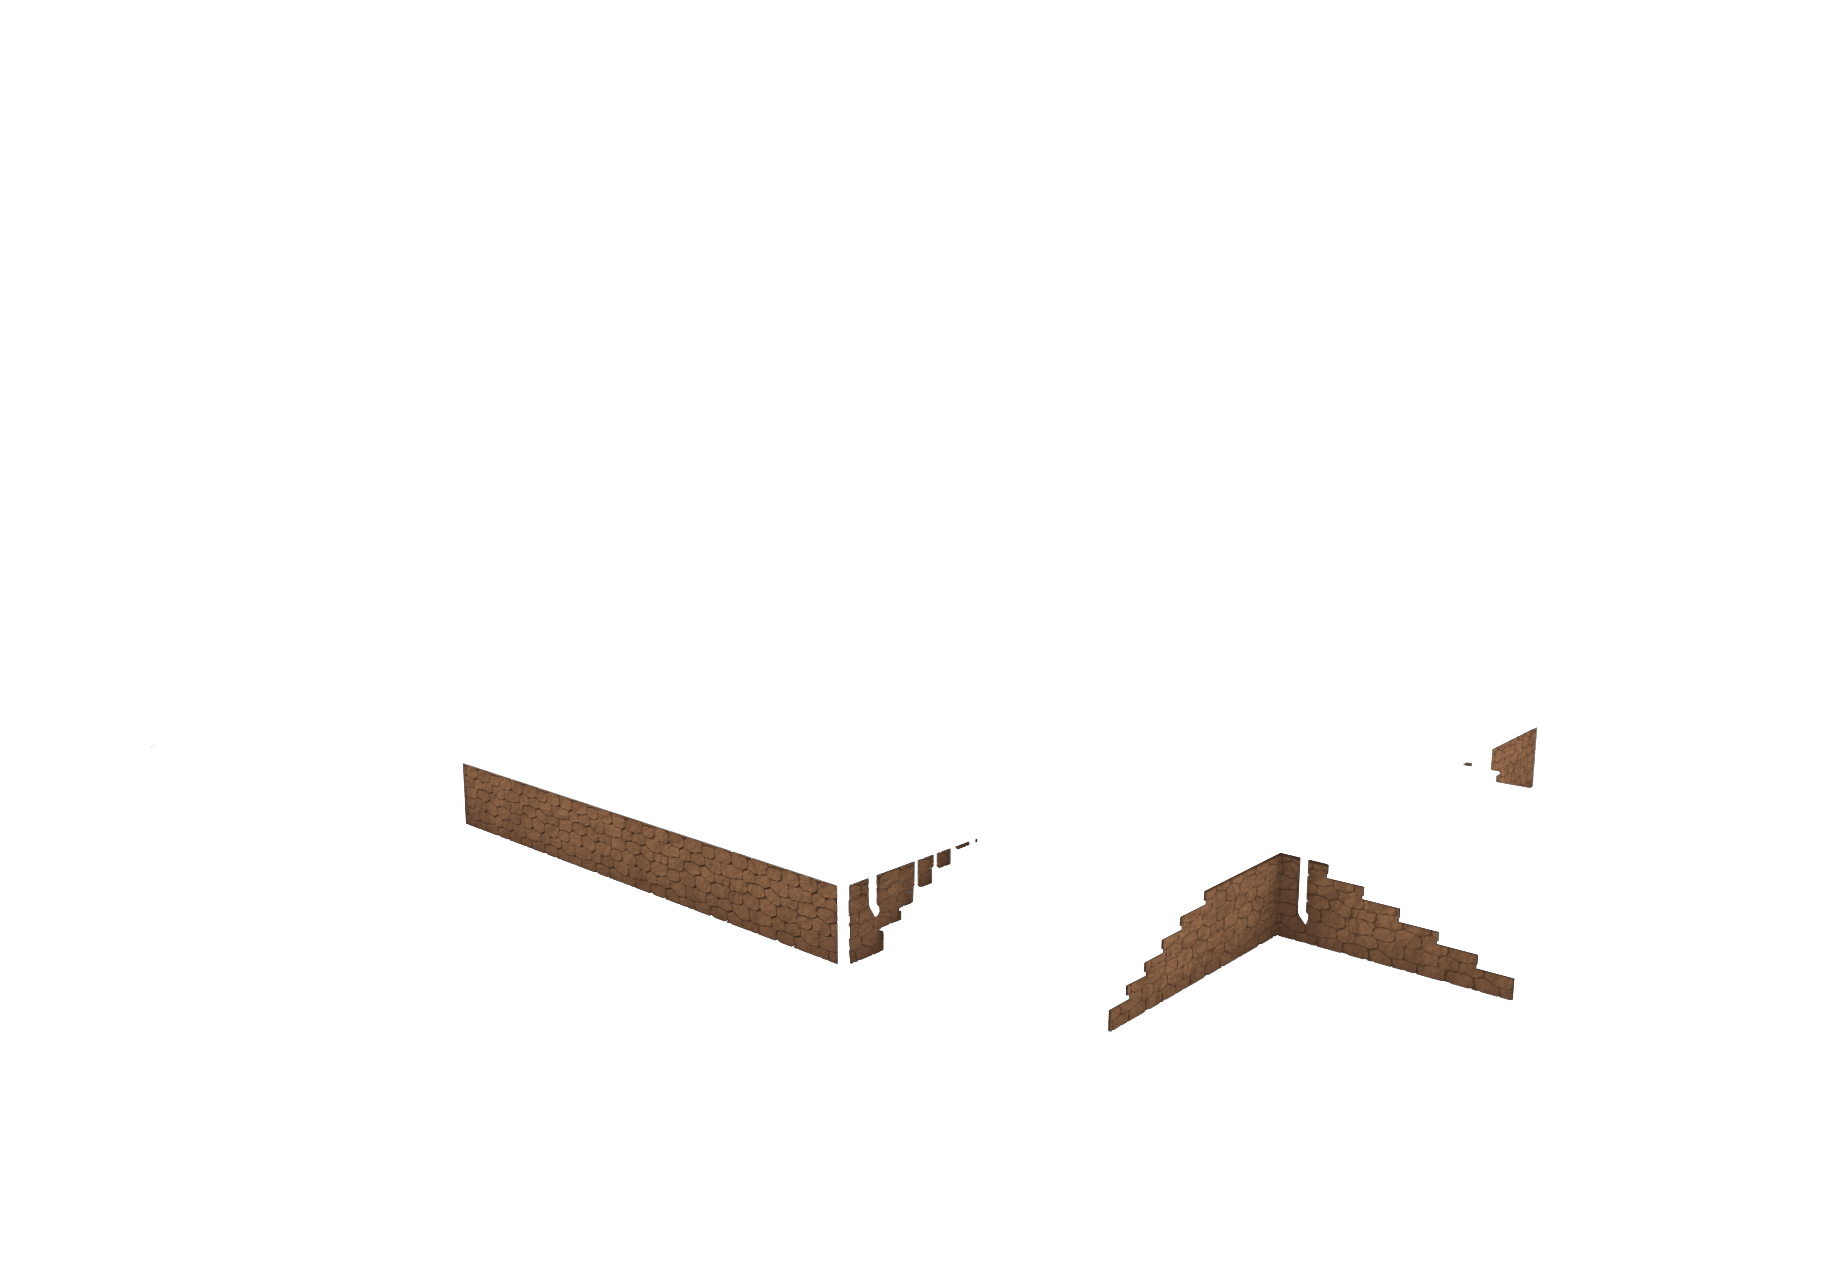
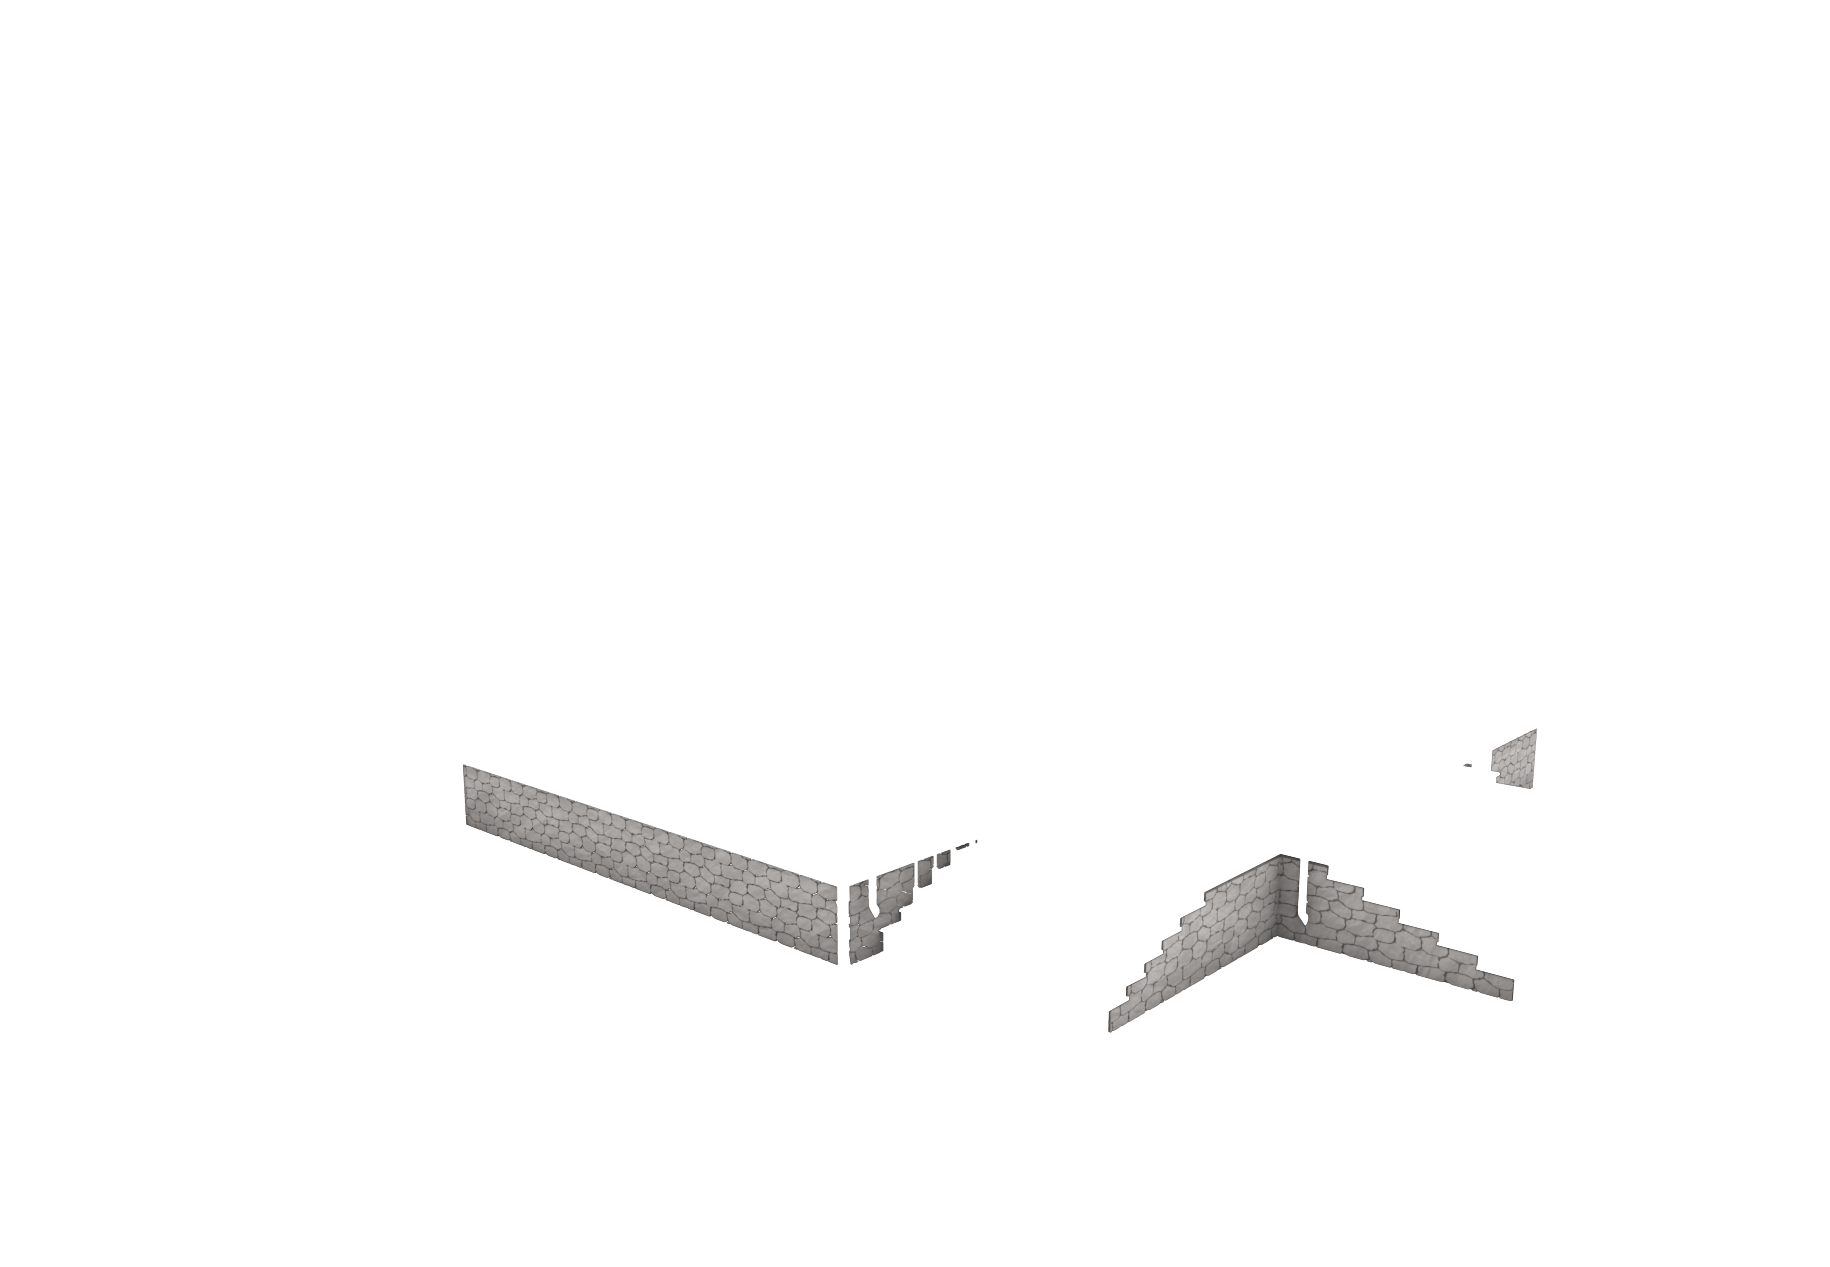
changes

Changed region(s): [[0.2492, 0.5848, 0.5295, 0.7695], [0.5918, 0.6772, 0.841, 0.8311], [0.8098, 0.5848, 0.841, 0.6464]]

diff --git a/index.html b/index.html
@@ -1185,8 +1185,8 @@
   <div class="conf-block conf-facade" style="background-image: url('img/facade/facade-kamen/butovyj/fasad_kamenj_butovyy_skifskiy.png')"></div>
 
 
-  <div class="conf-block conf-plinth-old" style="background-image: url('img/plinth/plinth-kamen/butovyj/cokolj_kamenj_butovyy_skandinavskiy.png')"></div>
-  <div class="conf-block conf-plinth" style="background-image: url('img/plinth/plinth-kamen/butovyj/cokolj_kamenj_butovyy_skandinavskiy.png')"></div>
+  <div class="conf-block conf-plinth-old" style="background-image: url('img/plinth/plinth-kamen/butovyj/cokolj_kamenj_butovyy_skifskiy.png')"></div>
+  <div class="conf-block conf-plinth" style="background-image: url('img/plinth/plinth-kamen/butovyj/cokolj_kamenj_butovyy_skifskiy.png')"></div>
 
 
   <!--<div class="conf-block conf-angles-old" style="background-image: url('img/angles/ugly_korichnevyy.png')"></div>-->
